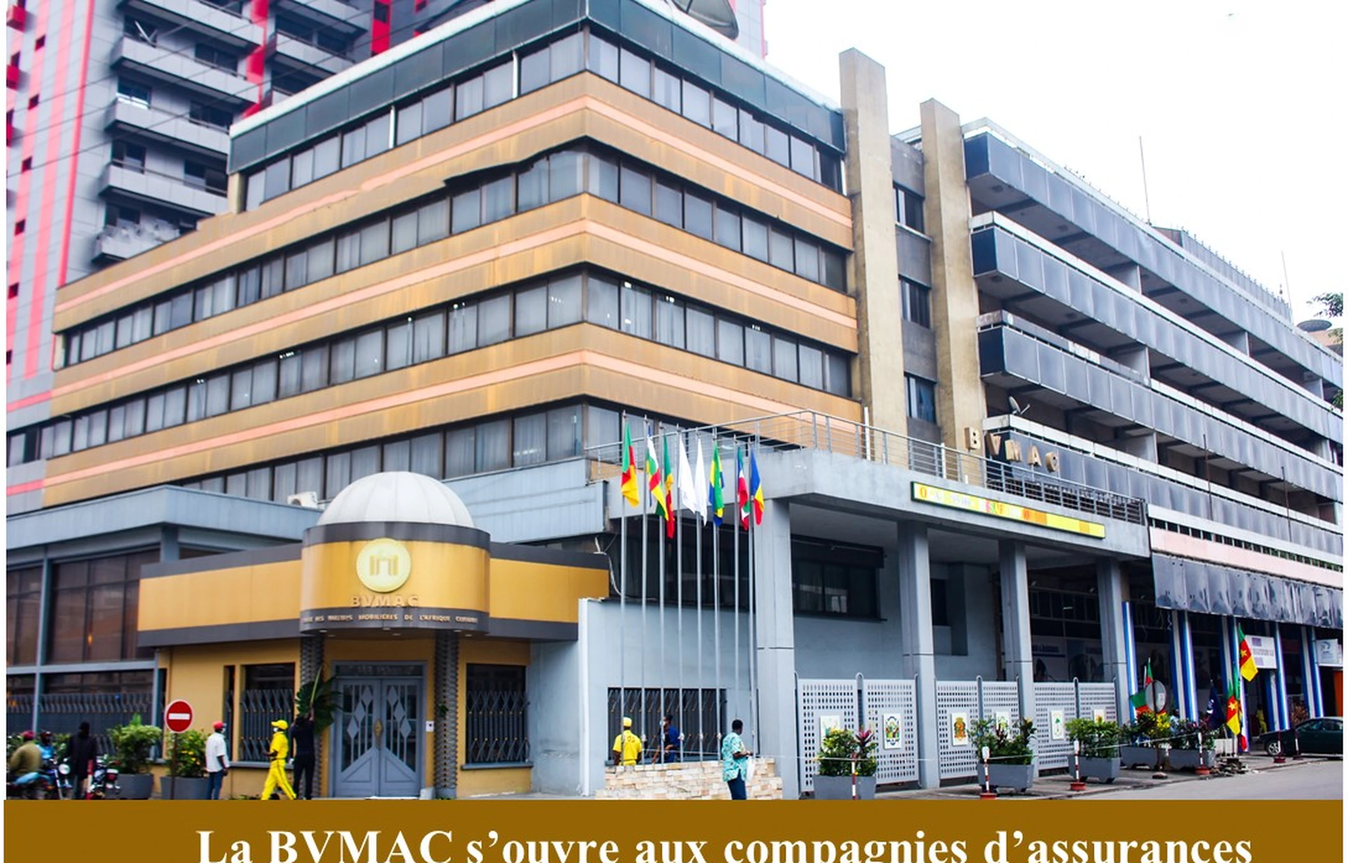
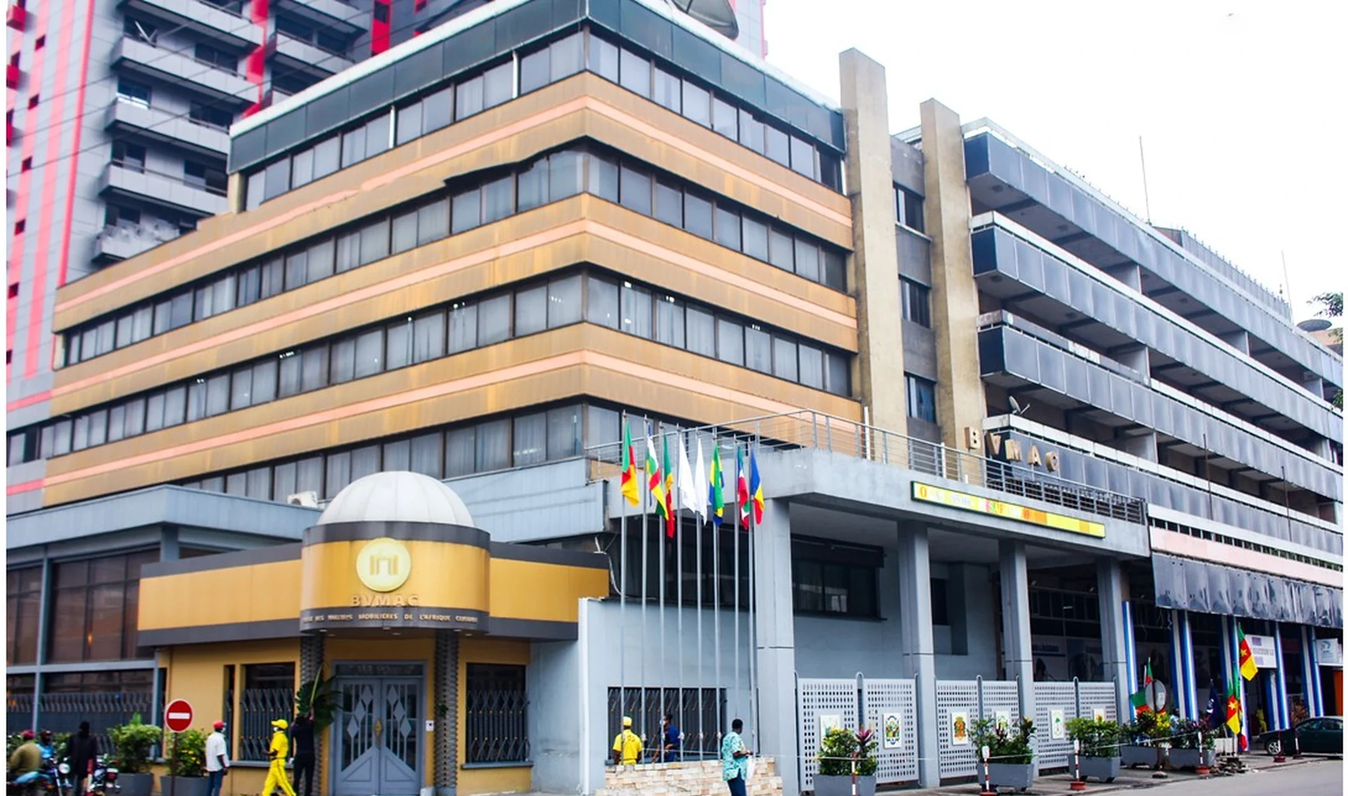
Fill the news column gap on desktop and trim the building photo
- Lead news card's photo grows to the height of the right-hand column
  on large screens, so both columns end on the same line
- Crop the printed caption banner off bvmac-building.webp; cards were
  cutting it in half

Claude-Session: https://claude.ai/code/session_01CP1nR8S539LywZGBgtoo99

diff --git a/src/components/content/NewsCard.tsx b/src/components/content/NewsCard.tsx
@@ -9,7 +9,7 @@ import { cn } from "@/lib/cn";
 export function NewsCard({ item, locale, large = false }: { item: NewsItem; locale: Locale; large?: boolean }) {
   return (
     <article className="group relative flex h-full flex-col">
-      <div className={cn("relative overflow-hidden rounded-[var(--radius-card)] bg-surface-alt", large ? "aspect-[16/10]" : "aspect-[4/3]")}>
+      <div className={cn("relative overflow-hidden rounded-[var(--radius-card)] bg-surface-alt", large ? "aspect-[16/10] lg:aspect-auto lg:min-h-80 lg:flex-1" : "aspect-[4/3]")}>
         <Image src={item.image} alt="" fill sizes={large ? "(min-width:1024px) 640px, 100vw" : "(min-width:1024px) 400px, 100vw"} className="object-cover transition-transform duration-[1.2s] ease-[cubic-bezier(.16,1,.3,1)] group-hover:scale-105" />
         <span className="absolute left-4 top-4 rounded-full bg-surface/90 px-3 py-1 text-xs font-medium text-heading backdrop-blur">{item.category}</span>
       </div>

diff --git a/src/app/[locale]/page.tsx b/src/app/[locale]/page.tsx
@@ -737,7 +737,7 @@ export default async function HomePage({ params }: PageProps<"/[locale]">) {
           </Reveal>
         )}
         <div className={marketNews.length >= 3 ? "hidden gap-10 sm:grid lg:grid-cols-[1.4fr_1fr]" : "grid gap-10 lg:grid-cols-[1.4fr_1fr]"}>
-          <Reveal>{marketNews[0] && <NewsCard item={marketNews[0]} locale={locale} large />}</Reveal>
+          <Reveal className="h-full">{marketNews[0] && <NewsCard item={marketNews[0]} locale={locale} large />}</Reveal>
           <Stagger className="grid gap-10 sm:grid-cols-2 lg:grid-cols-1">
             {marketNews.slice(1, 3).map((n) => (
               <StaggerItem key={n.slug}>
